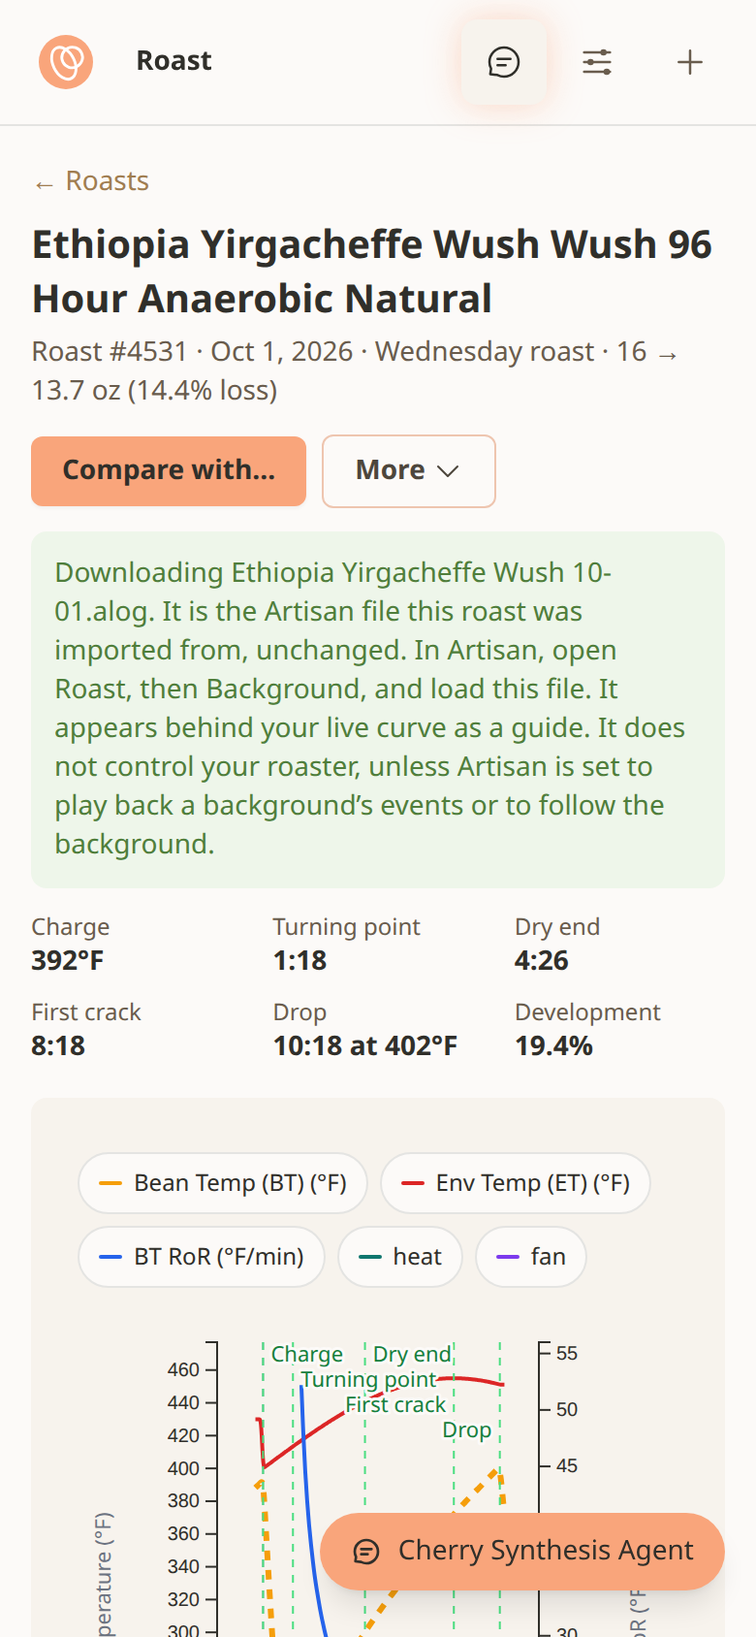
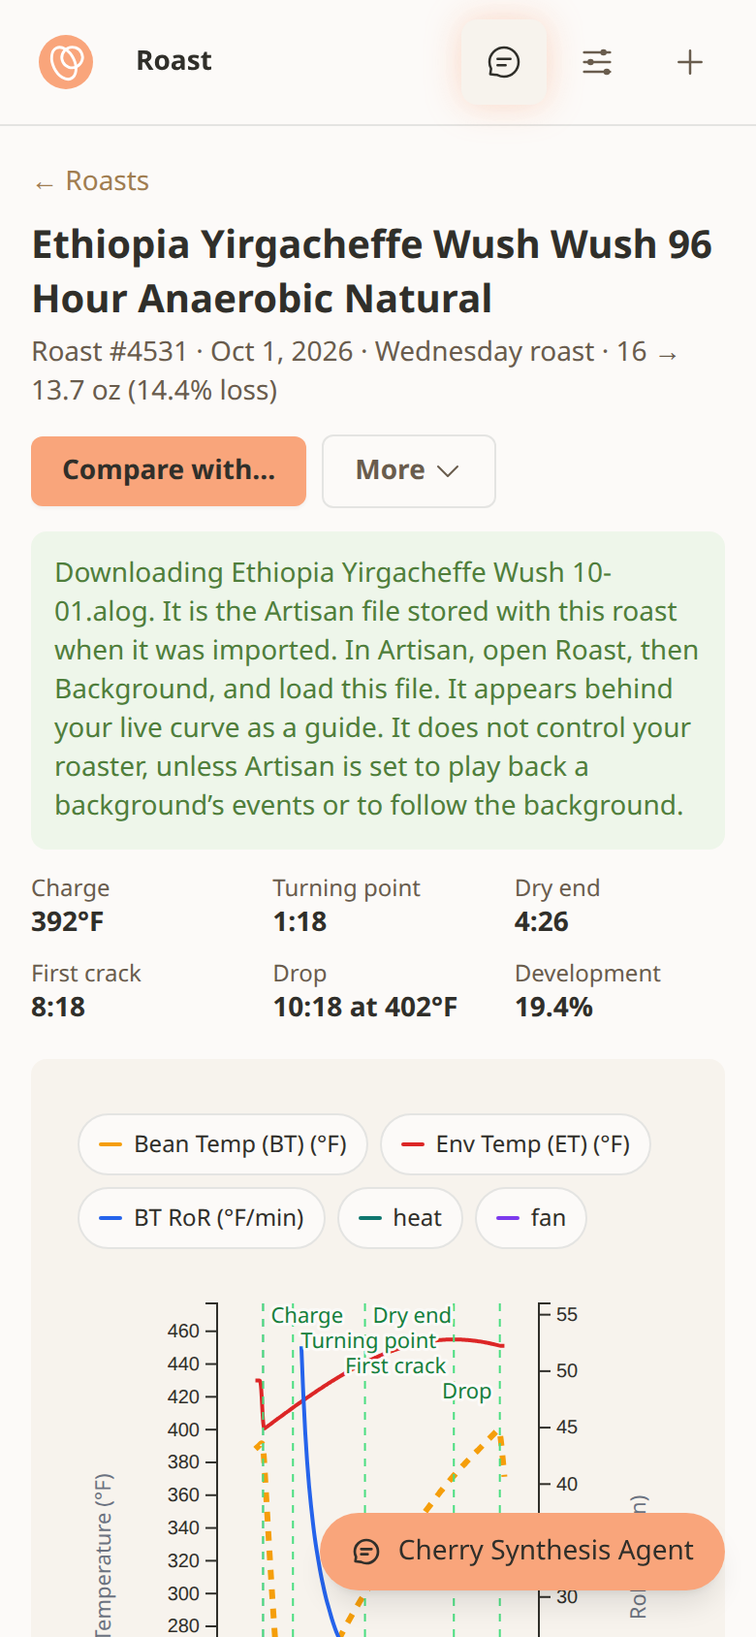
fix(roast): review corrections for the saved library, downloads, and portfolio's row menu
- Portfolio's Roasting tab no longer clips at the table's edge, so the last
  roast's "Plan next roast" menu opens below the table and can be clicked.
  The last row keeps the table's rounded corners when pointed at.
- A download whose body stops arriving after the headers now resolves as a
  failure instead of rejecting, so the library says to try again and the other
  rows' downloads stay usable; the open roast shows the same message.
- The download messages name the Artisan file stored with the reference or
  roast and no longer say it is unchanged from the file that was chosen. An
  upload is read as text on its way in, so only the stored file can be vouched
  for. The route docs and the plan say the same.
- "Add an Artisan file" renames the reference to match when another file is
  chosen in its place, until the member types a name of their own.

Evidence in notes/.../pr-6 is updated: the two download screenshots, the last
roast's menu in portfolio, and the write-up.

diff --git a/src/lib/components/roast/SavedLibrary.svelte.test.ts b/src/lib/components/roast/SavedLibrary.svelte.test.ts
@@ -468,6 +468,62 @@ describe('adding an Artisan file', () => {
 		await waitFor(() => expect(rowTitles()[0]).toBe('Kenya Nyeri 10-04'));
 	});
 
+	it('names the reference after the file chosen last, until the member types a name', async () => {
+		await renderLibrary();
+		await fireEvent.click(screen.getByRole('button', { name: 'Add an Artisan file' }));
+		const form = screen.getByRole('form', { name: 'Add an Artisan file' });
+		const picker = within(form).getByLabelText('Artisan file (.alog)');
+		const name = within(form).getByLabelText('Name');
+
+		await fireEvent.change(picker, {
+			target: { files: [new File([FILE_BYTES], 'Kenya_Nyeri 10-04.alog')] }
+		});
+		expect(name).toHaveValue('Kenya Nyeri 10-04');
+
+		// Choosing another file in its place renames the reference to match.
+		const second = new File([FILE_BYTES], 'Guji_natural 10-05.alog');
+		await fireEvent.change(picker, { target: { files: [second] } });
+		expect(name).toHaveValue('Guji natural 10-05');
+
+		// Clearing the choice clears a name the member did not type.
+		await fireEvent.change(picker, { target: { files: [] } });
+		expect(name).toHaveValue('');
+
+		// A name the member typed stays, whichever file is chosen after it.
+		await fireEvent.input(name, { target: { value: 'October keeper' } });
+		await fireEvent.change(picker, { target: { files: [second] } });
+		expect(name).toHaveValue('October keeper');
+
+		// Emptying the name hands it back to the file.
+		await fireEvent.input(name, { target: { value: '' } });
+		await fireEvent.change(picker, {
+			target: { files: [new File([FILE_BYTES], 'Kenya_Nyeri 10-04.alog')] }
+		});
+		expect(name).toHaveValue('Kenya Nyeri 10-04');
+
+		await fireEvent.click(within(form).getByRole('button', { name: 'Save reference' }));
+		await waitFor(() => expect(requests('POST', '/api/reference-profiles')).toHaveLength(1));
+		const [upload] = requests('POST', '/api/reference-profiles');
+		expect((upload.body as FormData).get('title')).toBe('Kenya Nyeri 10-04');
+	});
+
+	it('starts the next file’s name fresh after the form is closed', async () => {
+		await renderLibrary();
+		await fireEvent.click(screen.getByRole('button', { name: 'Add an Artisan file' }));
+		let form = screen.getByRole('form', { name: 'Add an Artisan file' });
+		await fireEvent.input(within(form).getByLabelText('Name'), {
+			target: { value: 'October keeper' }
+		});
+		await fireEvent.click(within(form).getByRole('button', { name: 'Cancel' }));
+
+		await fireEvent.click(screen.getByRole('button', { name: 'Add an Artisan file' }));
+		form = screen.getByRole('form', { name: 'Add an Artisan file' });
+		await fireEvent.change(within(form).getByLabelText('Artisan file (.alog)'), {
+			target: { files: [new File([FILE_BYTES], 'Guji_natural 10-05.alog')] }
+		});
+		expect(within(form).getByLabelText('Name')).toHaveValue('Guji natural 10-05');
+	});
+
 	it('says why a file was refused and keeps the form open', async () => {
 		answers['POST /api/reference-profiles'] = () =>
 			json({ error: 'This is not an Artisan file' }, 400);
@@ -633,7 +689,7 @@ describe('removing', () => {
 });
 
 describe('downloading for Artisan', () => {
-	it('downloads the original file of an uploaded reference, unchanged', async () => {
+	it('downloads the file stored with an uploaded reference, as the bytes that arrive', async () => {
 		await renderLibrary();
 
 		await chooseFromMenu(keeper.title, 'Download for Artisan');
@@ -643,7 +699,7 @@ describe('downloading for Artisan', () => {
 		);
 		const status = await within(rowOf(keeper.title)).findByRole('status');
 		expect(status).toHaveTextContent(
-			'Downloading Guji natural 09-28.alog. It is the Artisan file you added, unchanged. In Artisan, open Roast, then Background, and load this file.'
+			'Downloading Guji natural 09-28.alog. It is the Artisan file stored with this reference when you added it. In Artisan, open Roast, then Background, and load this file.'
 		);
 		expect(clicked).toEqual(['Guji natural 09-28.alog']);
 		expect(Array.from(new Uint8Array(await saved[0].arrayBuffer()))).toEqual(
@@ -660,7 +716,7 @@ describe('downloading for Artisan', () => {
 			expect(requests('GET', `/api/reference-profiles/${KEPT}/artisan-file`)).toHaveLength(1)
 		);
 		expect(await within(rowOf(kept.title)).findByRole('status')).toHaveTextContent(
-			'It is the Artisan file of the roast this reference was kept from, unchanged.'
+			'It is the Artisan file stored with the roast this reference was kept from.'
 		);
 	});
 
@@ -722,6 +778,48 @@ describe('downloading for Artisan', () => {
 			'This file could not be downloaded. Try again in a moment.'
 		);
 		expect(clicked).toEqual([]);
+	});
+
+	it('says to try again, and frees the other downloads, when the file stops arriving part way', async () => {
+		// The headers arrived, so the request itself succeeded; the body then fails to read.
+		answers[`GET /api/reference-profiles/${KEEPER}/artisan-file`] = () => {
+			const response = new Response(FILE_BYTES, {
+				headers: { 'Content-Disposition': 'attachment; filename="Guji natural 09-28.alog"' }
+			});
+			vi.spyOn(response, 'blob').mockRejectedValue(new TypeError('network error'));
+			return response;
+		};
+		await renderLibrary();
+
+		await chooseFromMenu(keeper.title, 'Download for Artisan');
+
+		expect(await within(rowOf(keeper.title)).findByRole('alert')).toHaveTextContent(
+			'This file could not be downloaded. Try again in a moment.'
+		);
+		expect(clicked).toEqual([]);
+		// No row is left waiting on the one that failed.
+		const planDownload = screen.getByRole('button', {
+			name: `Download for Artisan: ${plan.title}`
+		});
+		expect(planDownload).toBeEnabled();
+		await fireEvent.click(planDownload);
+		expect(await within(rowOf(plan.title)).findByRole('status')).toHaveTextContent(
+			'Downloading Guji-plan.alog.'
+		);
+		expect(clicked).toEqual(['Guji-plan.alog']);
+	});
+
+	it('never says the download matches the file the member chose', async () => {
+		// An upload is read as text on its way in, so only the stored copy can be vouched for.
+		await renderLibrary();
+
+		await chooseFromMenu(keeper.title, 'Download for Artisan');
+		const uploaded = (await within(rowOf(keeper.title)).findByRole('status')).textContent;
+		await chooseFromMenu(kept.title, 'Download for Artisan');
+		const fromRoast = (await within(rowOf(kept.title)).findByRole('status')).textContent;
+
+		const said = `${uploaded} ${fromRoast}`;
+		expect(said).not.toMatch(/unchanged|original|byte for byte|exactly/i);
 	});
 });
 

diff --git a/src/lib/components/roast/SavedLibrary.svelte b/src/lib/components/roast/SavedLibrary.svelte
@@ -100,6 +100,8 @@
 	const UPLOAD_SCOPE = 'profile-studio-upload';
 	let adding = $state(false);
 	let addName = $state('');
+	// True once the member has typed a name of their own.
+	let addNameEdited = $state(false);
 	let addFile = $state<File | null>(null);
 	let addSaving = $state(false);
 	let addError = $state<string | null>(null);
@@ -117,6 +119,7 @@
 	function closeAddForm() {
 		adding = false;
 		addName = '';
+		addNameEdited = false;
 		addFile = null;
 		addError = null;
 		addButton?.focus();
@@ -124,8 +127,9 @@
 
 	function chooseFile(event: Event) {
 		addFile = (event.currentTarget as HTMLInputElement).files?.[0] ?? null;
-		// The file's own name tells one upload from the next until the member types another.
-		if (addFile && !addName.trim()) addName = referenceNameFromFile(addFile.name);
+		// The file's own name tells one upload from the next. It follows the chosen file until
+		// the member types a name of their own.
+		if (!addNameEdited) addName = addFile ? referenceNameFromFile(addFile.name) : '';
 	}
 
 	async function uploadReference() {
@@ -174,8 +178,8 @@
 	function downloadedFileIs(row: LibraryRow): string {
 		if (row.isPlan) return 'It is this plan as an Artisan file.';
 		return row.profile.sourceClass === 'artisan_upload'
-			? 'It is the Artisan file you added, unchanged.'
-			: 'It is the Artisan file of the roast this reference was kept from, unchanged.';
+			? 'It is the Artisan file stored with this reference when you added it.'
+			: 'It is the Artisan file stored with the roast this reference was kept from.';
 	}
 
 	async function download(row: LibraryRow) {
@@ -484,6 +488,7 @@
 				>Name<input
 					bind:this={addNameInput}
 					bind:value={addName}
+					oninput={(event) => (addNameEdited = event.currentTarget.value.trim() !== '')}
 					maxlength="120"
 					class="mt-1 min-h-11 w-full rounded-md border border-line bg-surface-canvas px-3 font-normal"
 				/></label

diff --git a/src/lib/docs/content.ts b/src/lib/docs/content.ts
@@ -1467,7 +1467,7 @@ const docsPages: DocsPage[] = [
 							'GET',
 							'Session + Mallard Studio',
 							'Internal product route',
-							'Downloads the Artisan file a roast was imported from, byte for byte, as a private, no-store attachment with Parchment’s file name and Repr-Digest. A roast with no file on record returns 400 with code roast_artisan_source_unavailable and a reason.'
+							'Downloads the Artisan file stored with a roast when it was imported, byte for byte, as a private, no-store attachment with Parchment’s file name and Repr-Digest. A roast with no file on record returns 400 with code roast_artisan_source_unavailable and a reason.'
 						],
 						[
 							'/api/artisan-import',
@@ -1516,7 +1516,7 @@ const docsPages: DocsPage[] = [
 							'GET',
 							'Session + Mallard Studio',
 							'Internal product route',
-							'Downloads the Artisan file a reference was uploaded from, or kept from a roast, byte for byte, as a private, no-store attachment with Parchment’s file name and Repr-Digest. A reference with no original file returns 400 with code reference_artisan_file_unavailable and a reason; a plan downloads through its revision’s export instead.'
+							'Downloads the Artisan file stored with a reference, whether it was uploaded or kept from a roast, byte for byte, as a private, no-store attachment with Parchment’s file name and Repr-Digest. A reference with no original file returns 400 with code reference_artisan_file_unavailable and a reason; a plan downloads through its revision’s export instead.'
 						],
 						[
 							'/api/reference-profiles/[id]/roast',

diff --git a/src/lib/roast/artisan-download.ts b/src/lib/roast/artisan-download.ts
@@ -37,6 +37,9 @@ export function downloadFileName(disposition: string | null, fallback: string): 
  * Fetch a file and hand it to the browser to save. The body is kept as bytes from the
  * response to the saved file. A refusal resolves with Parchment's reason so the page can
  * say what to do next, instead of the browser saving an error in the file's place.
+ *
+ * This never rejects: a request that fails, or a body that stops arriving part way, resolves
+ * as a failure with no reason, so the page can always say what happened.
  */
 export async function downloadFile(href: string, fallbackName: string): Promise<FileDownload> {
 	let response: Response;
@@ -56,7 +59,13 @@ export async function downloadFile(href: string, fallbackName: string): Promise<
 		};
 	}
 	const fileName = downloadFileName(response.headers.get('content-disposition'), fallbackName);
-	const url = URL.createObjectURL(await response.blob());
+	let url: string;
+	try {
+		// The connection can drop after the headers arrive, while the body is still being read.
+		url = URL.createObjectURL(await response.blob());
+	} catch {
+		return { ok: false, reason: null, message: null };
+	}
 	const link = document.createElement('a');
 	link.href = url;
 	link.download = fileName;

diff --git a/src/routes/beans/tabs/RoastingTab.test.ts b/src/routes/beans/tabs/RoastingTab.test.ts
@@ -353,6 +353,26 @@ describe('portfolio Roasting tab', () => {
 		expect(screen.queryByText('Log sale')).toBeNull();
 	});
 
+	it('lets the last roast’s menu open below the table instead of cutting it off', async () => {
+		renderTab({
+			rowMenu: (roast: { roast_id: number }) => [
+				{ label: 'Plan next roast', href: `/roast/plan?from=roast:${roast.roast_id}` }
+			]
+		});
+
+		const rows = await dataRows();
+		const last = rows[rows.length - 1];
+		const link = within(last).getByRole('link', { name: 'Plan next roast', hidden: true });
+		// The menu hangs below its row, so nothing between it and the page may clip what
+		// runs past its own edge.
+		const table = screen.getByRole('table', { name: 'Roasts of this coffee, newest first' });
+		for (let box = link.parentElement; box && table.contains(box); box = box.parentElement) {
+			expect(box.className).not.toMatch(/\boverflow-(?:hidden|clip|auto|scroll)\b/);
+		}
+		// The last row still follows the table's rounded corners when it is pointed at.
+		expect(last).toHaveClass('last:rounded-b-lg');
+	});
+
 	it('draws no row menu on a shared coffee, where nothing can be planned', async () => {
 		render(RoastingTab, {
 			selectedBean: {

diff --git a/src/lib/roast/artisan-download.test.ts b/src/lib/roast/artisan-download.test.ts
@@ -139,6 +139,27 @@ describe('downloading a file', () => {
 		});
 		expect(clicked).toEqual([]);
 	});
+
+	it('answers with no reason, and saves nothing, when the file stops arriving part way', async () => {
+		// The headers arrived, so the request itself succeeded; the body then fails to read.
+		const response = new Response(FILE_BYTES, {
+			headers: { 'Content-Disposition': 'attachment; filename="Wush Wush 10-01.alog"' }
+		});
+		vi.spyOn(response, 'blob').mockRejectedValue(new TypeError('network error'));
+		vi.stubGlobal(
+			'fetch',
+			vi.fn(async () => response)
+		);
+
+		expect(await downloadFile(roastFileHref(4531), 'roast-4531.alog')).toEqual({
+			ok: false,
+			reason: null,
+			message: null
+		});
+		expect(clicked).toEqual([]);
+		expect(saved).toEqual([]);
+		expect(document.querySelector('a[download]')).toBeNull();
+	});
 });
 
 describe('why there is no file, as the next thing to do', () => {

diff --git a/src/routes/roast/+page.svelte b/src/routes/roast/+page.svelte
@@ -874,8 +874,8 @@
 		}
 	}
 
-	// "Download Artisan file" in the roast's More menu: the file the roast was imported
-	// from, as it was uploaded. Nothing on the page changes, so a roast that is recording
+	// "Download Artisan file" in the roast's More menu: the Artisan file stored with the
+	// roast when it was imported. Nothing on the page changes, so a roast that is recording
 	// keeps recording.
 	async function handleDownloadArtisanFile() {
 		const roast = currentRoastProfile;
@@ -892,7 +892,7 @@
 				actionNotice = {
 					roastId: roast.roast_id,
 					notice: {
-						message: `Downloading ${result.fileName}. It is the Artisan file this roast was imported from, unchanged. ${ARTISAN_BACKGROUND_STEPS}`
+						message: `Downloading ${result.fileName}. It is the Artisan file stored with this roast when it was imported. ${ARTISAN_BACKGROUND_STEPS}`
 					}
 				};
 			} else if (result.reason) {

diff --git a/src/routes/beans/tabs/RoastingTab.svelte b/src/routes/beans/tabs/RoastingTab.svelte
@@ -176,10 +176,11 @@
 			{/if}
 		</div>
 	{:else}
+		<!-- Nothing is clipped at the table's edge, so the last row's menu can open below it. -->
 		<div
 			role="table"
 			aria-label="Roasts of this coffee, newest first"
-			class="overflow-hidden rounded-lg bg-surface-canvas ring-1 ring-line"
+			class="rounded-lg bg-surface-canvas ring-1 ring-line"
 		>
 			<!-- On a phone the header names the four values on each row's second line. -->
 			<div
@@ -203,7 +204,7 @@
 				{@const menuLinks = readOnly || !roasts ? [] : rowMenu(roasts[index])}
 				<div
 					role="row"
-					class="relative gap-y-1 border-b border-line px-3 py-2.5 text-sm transition-colors last:border-b-0 hover:bg-surface-panel {rowGrid}"
+					class="relative gap-y-1 border-b border-line px-3 py-2.5 text-sm transition-colors last:rounded-b-lg last:border-b-0 hover:bg-surface-panel {rowGrid}"
 				>
 					<span
 						role="cell"

diff --git a/src/routes/roast/page.svelte.test.ts b/src/routes/roast/page.svelte.test.ts
@@ -589,7 +589,7 @@ describe('roast page live roast guard', () => {
 
 		const notice = await screen.findByText(/Downloading Ethiopia 10-01\.alog\./);
 		expect(notice).toHaveTextContent(
-			'It is the Artisan file this roast was imported from, unchanged.'
+			'It is the Artisan file stored with this roast when it was imported.'
 		);
 		expect(requests.some((request) => request.url === '/api/roast-profiles/1/artisan-file')).toBe(
 			true

diff --git a/notes/implementation-plans/2026-10-04-roast-and-portfolio-workflows/pr-6/README.md b/notes/implementation-plans/2026-10-04-roast-and-portfolio-workflows/pr-6/README.md
@@ -16,7 +16,7 @@ Rendered locally at 1440×900 and 390×844 with the plan's seeded data behind a 
 - **Plan from this** opens `/roast/plan?from=ref:<id>` with the reference chosen.
 - **Rename** edits the name in the row. Nothing is sent until "Save name"; Cancel and Escape leave the name alone. The new name is still there after a reload.
 - **Remove** asks first: "Remove Kenya Nyeri 10-04?", "It will no longer be here to compare, plan from, or download. This cannot be undone. Your roasts are not changed." Focus opens on "Keep it", which removes nothing. "Remove" takes the row away and says "Kenya Nyeri 10-04 is removed. Your roasts are not changed."
-- **Add an Artisan file** opens a form with the helper "Keeps the file as a reference to compare or plan from. To record it as a roast you ran, import it from Roasts." The file's own name fills the name ("Kenya_Nyeri 10-04.alog" becomes "Kenya Nyeri 10-04"), so two uploads are not both called "Artisan reference". After saving: "Kenya Nyeri 10-04 is saved as a reference. It is not counted as a roast."
+- **Add an Artisan file** opens a form with the helper "Keeps the file as a reference to compare or plan from. To record it as a roast you ran, import it from Roasts." The file's own name fills the name ("Kenya_Nyeri 10-04.alog" becomes "Kenya Nyeri 10-04"), so two uploads are not both called "Artisan reference". Choosing another file in its place renames the reference to match, until a name is typed: "Kenya_Nyeri 10-04.alog" and then "Guji_natural 10-05.alog" leaves "Guji natural 10-05"; a typed "October keeper" stays through a further choice. After saving: "Kenya Nyeri 10-04 is saved as a reference. It is not counted as a roast."
 - **Record as a roast I ran** asks which coffee in the portfolio was roasted, then says "Recorded as roast #4601 of Ethiopia Yirgacheffe Wush Wush 96 Hour Anaerobic Natural. This saved reference is kept." with a link to the roast.
 - **Nothing saved yet:** "**Nothing saved yet.** Save a roast you want to repeat, add an Artisan file, or make a plan from a roast." with a link to Roasts, where two of those three start.
 - **The last row's menu** opens upward when it would otherwise run under the bottom of the screen, so "Rename" and "Remove" never sit under the chat button fixed to the corner. Measured with a seven-item menu on the last row at both sizes.
@@ -32,7 +32,9 @@ The stand-in's stored files are deliberately not valid UTF-8 (a Latin-1 "é", a 
 | "Download for Artisan" on a plan (the existing export) | `Purveyors-reference.alog`             | Not compared         |
 
 - The file keeps the name Parchment sent. The route tests also check that Parchment's `Repr-Digest` header reaches the browser and still describes the body.
-- After a download the page says what the file is and what to do with it: "Downloading Guji natural September keeper.alog. It is the Artisan file you added, unchanged. In Artisan, open Roast, then Background, and load this file. It appears behind your live curve as a guide. It does not control your roaster, unless Artisan is set to play back a background's events or to follow the background."
+- After a download the page says what the file is and what to do with it: "Downloading Guji natural September keeper.alog. It is the Artisan file stored with this reference when you added it. In Artisan, open Roast, then Background, and load this file. It appears behind your live curve as a guide. It does not control your roaster, unless Artisan is set to play back a background's events or to follow the background."
+- The message names the stored file and does not say it matches the file that was chosen. A download is the stored file byte for byte, but an upload is read as text on its way in, so a file that is not UTF-8 is stored as its decoded text.
+- **A download that stops part way** (the answer starts and the file then fails to arrive) says "This file could not be downloaded. Try again in a moment." on its row, and the other rows' downloads stay usable. Read from the rendered page with a body that fails after its headers.
 - **"Download Artisan file" is in More only when the roast has a file on record.** A roast imported before files were kept shows the menu without it.
 - **A reference with no file** (a roast's curve kept without its Artisan file) answers with Parchment's reason as the next step, not an error: "This reference holds a roast's curve without its Artisan file, so there is no file to download. If that roast was imported from Artisan, its file is under More on the roast." with "Open the roast". Nothing is saved in the file's place.
 - A roast whose flag is out of date gets the same treatment from the roast's reason ("This roast was imported before Artisan files were kept, so there is no file to download. Import its .alog again to keep a copy with the roast."). Covered by tests.
@@ -68,6 +70,7 @@ On a coffee's Roasting tab, "Plan next roast" is in the row menu of each roast w
 
 - Of the coffee's five roasts, the two with a file show the menu; the other three show none. A plan cannot be built on a roast with no file, so the item is left off instead of leading to a refusal.
 - A shared, read-only coffee shows no menu. Covered by tests.
+- **The last roast's menu** opens below the table and is not cut off at the table's edge. Measured with a file on every roast, so the last row draws a menu: "Plan next roast" sits 35 px below the table's bottom edge on desktop and 11 px below it on a phone, takes the click, and opens the plan. With the table clipping its contents, as it did before, the same click on desktop landed on the page behind the menu.
 - "Log sale" joins this menu with PR 8.
 
 ## Live roast guard
@@ -111,3 +114,4 @@ The library is a list to manage, so the plan gives it no module declaration. On 
 | An open roast after the download            | [desktop](roast-downloaded-desktop.png)                                     | [phone](roast-downloaded-phone.png)                                   |
 | `/roast` without the Studio section         | [desktop](roast-list-desktop.png), [full page](roast-list-full-desktop.png) | [phone](roast-list-phone.png), [full page](roast-list-full-phone.png) |
 | Portfolio's row menu                        | [desktop](portfolio-row-menu-desktop.png)                                   | [phone](portfolio-row-menu-phone.png)                                 |
+| Portfolio's menu on the last roast          | [desktop](portfolio-last-row-menu-desktop.png)                              | [phone](portfolio-last-row-menu-phone.png)                            |

diff --git a/notes/implementation-plans/2026-10-04-roast-and-portfolio-workflows.md b/notes/implementation-plans/2026-10-04-roast-and-portfolio-workflows.md
@@ -324,7 +324,7 @@ References you kept to repeat, and plans you made from them. They are never coun
 
 Corrected when PR 6 was built ([evidence](2026-10-04-roast-and-portfolio-workflows/pr-6/README.md)):
 
-- **Download for Artisan is on every row, not only plans.** Approved on 2026-10-04: a reference added from an Artisan file, or kept from a roast with that roast's file, downloads the stored file unchanged; a plan downloads its own export. A reference that holds a roast's curve without its file says so and links to the roast. This needs SDK 0.61.0 (`referenceProfiles.downloadArtisanFile`, `roasts.downloadArtisanFile`, and the `artisanFileAvailable` and `artisan_file_available` flags).
+- **Download for Artisan is on every row, not only plans.** Approved on 2026-10-04: a reference added from an Artisan file, or kept from a roast with that roast's file, downloads the stored file unchanged; a plan downloads its own export. The page describes it as the Artisan file stored with the reference or the roast, and does not say it matches the file that was chosen: an upload is read as text on its way in, so a file that is not UTF-8 is stored as its decoded text. Keeping uploads as bytes means changing the import request and is not part of this PR. A reference that holds a roast's curve without its file says so and links to the roast. This needs SDK 0.61.0 (`referenceProfiles.downloadArtisanFile`, `roasts.downloadArtisanFile`, and the `artisanFileAvailable` and `artisan_file_available` flags).
 - **"Record as a roast I ran" asks which coffee.** A roast belongs to a coffee in the portfolio and a saved reference does not, so the action opens a short question with the portfolio's coffees. The reference is kept.
 - **Four server routes, not two.** Rename and remove share one route; the reference's file, the roast's file, and "Record as a roast I ran" have one each. Each checks the member role itself.
 - **A reference kept from a roast with its file can be planned from.** "Plan from this" follows `artisanFileAvailable`, so it is offered on uploads, on plans, and on references kept from a roast's Artisan file, and left off a reference that holds only a curve.
